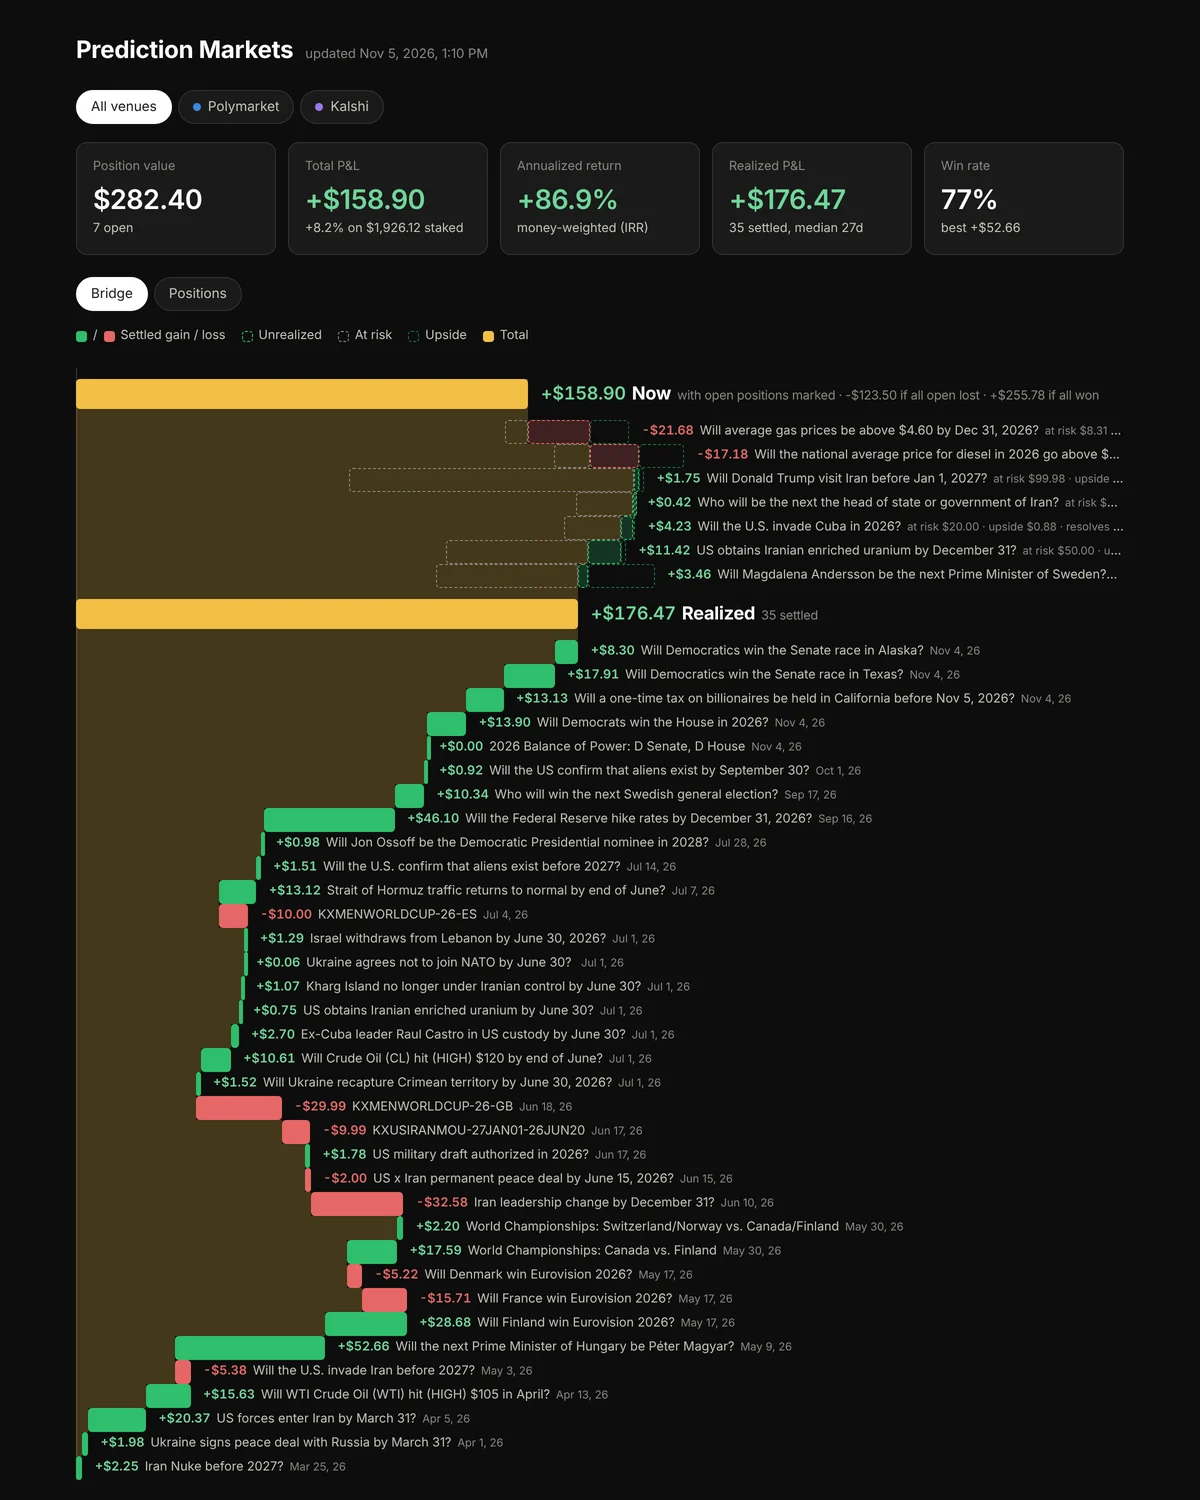
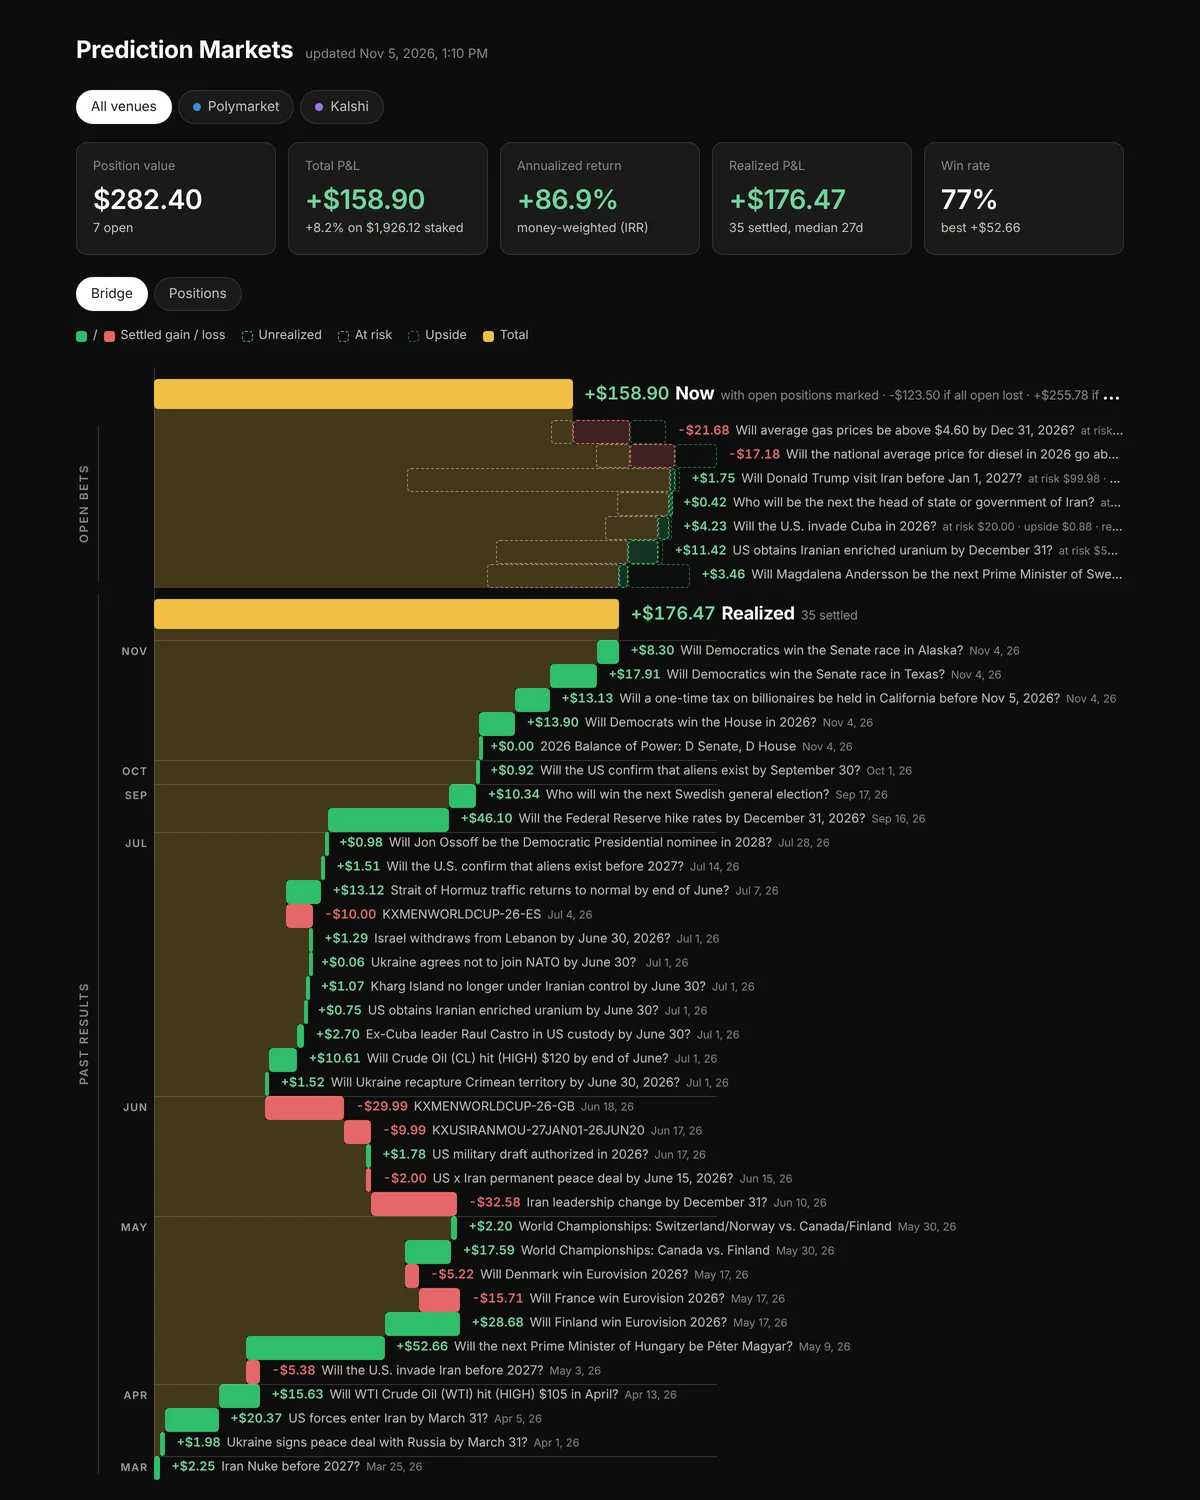
Add files via upload

Changed region(s): [[0.0617, 0.2453, 0.925, 0.9813]]

diff --git a/prediction-markets/index.html b/prediction-markets/index.html
@@ -127,6 +127,21 @@
   .br-name { font-size: 13px; overflow: hidden; text-overflow: ellipsis; white-space: nowrap; }
   .br-name .when { color: var(--text-muted); font-size: 11.5px; margin-left: 8px; }
   .br-row.total { height: 52px; }
+  .br-month { position: absolute; left: 0; top: 0; height: 0; border-top: 1px solid rgba(255,255,255,.16); z-index: 1; pointer-events: none; }
+  .br-month span { position: absolute; left: 6px; top: 2px; font-size: 10.5px; font-weight: 600; letter-spacing: .1em; text-transform: uppercase; color: var(--text-secondary); opacity: .8; }
+  /* build-up on load: the rows appear one after another from the bottom, the oldest bet first */
+  .br.anim .br-row { animation: brIn .32s ease-out both; animation-delay: calc(var(--d) * 1ms); }
+  @keyframes brIn { from { opacity: 0; transform: translateY(8px); } to { opacity: 1; transform: none; } }
+  @media (prefers-reduced-motion: reduce) { .br.anim .br-row { animation: none; } }
+  /* desktop: a vertical label beside each segment, with a thin bracket */
+  @media (min-width: 641px) {
+    .br { padding-left: 78px; }
+    .br-month span { left: -44px; width: 38px; text-align: right; top: 3px; }   /* months in their own column, left of the bars */
+    .br-seg { position: relative; }
+    .br-seg::before { content: attr(data-label); position: absolute; left: -78px; top: 6px; bottom: 6px; width: 22px;
+      writing-mode: vertical-rl; transform: rotate(180deg); text-align: center; border-left: 1px solid var(--baseline);
+      font-size: 11.5px; font-weight: 600; letter-spacing: .14em; text-transform: uppercase; color: var(--text-muted); }
+  }
   .br-plot { position: absolute; inset: 0; }
   .br-zero { position: absolute; top: 0; bottom: 0; width: 1px; background: var(--baseline); }
   .br-bar { position: absolute; top: 50%; height: 11px; margin-top: -5.5px; border-radius: 2px; box-sizing: border-box; }
@@ -436,6 +451,7 @@ function renderClosed() {
 }
 
 const tc = (n) => n >= 0 ? 'up' : 'dn';
+const cents = (p) => p > 0 && p < 1 ? ` at ${Math.round(p * 100)}¢` : '';   // the price paid per $1 contract
 const longDate = (d) => d ? new Date(d + 'T00:00:00Z').toLocaleDateString('en-US', { day: 'numeric', month: 'short', year: 'numeric', timeZone: 'UTC' }) : '';
 function renderBridge() {
   const card = document.getElementById('bridge-card');
@@ -468,9 +484,10 @@ function renderBridge() {
       const c = s.r, v = VENUES[c.venue] || { name: c.venue };
       bar = `<div class="br-bar ${c.realized_pnl >= 0 ? 'g' : 'l'}" style="left:${x0}%;width:${w}%"></div>`;
       lab = `<b class="${cls(c.realized_pnl)}">${signed(c.realized_pnl)}</b>${esc(c.title)}<span class="when">${short(c.closed_at)}</span>`;
-      tipHtml = `<span class="t">${esc(c.title)}</span><span class="m">${esc(v.name)} · ${esc(c.outcome)} · settled ${esc(longDate(c.closed_at))}</span>` +
-        `Cost <b>${esc(usd(c.cost_basis))}</b> · result <b class="${tc(c.realized_pnl)}">${esc(signed(c.realized_pnl))}</b> (${esc(pct(c.pct_pnl))})` +
-        `<br>Running total <b>${esc(signed(s.b))}</b>`;
+      tipHtml = `<span class="t">${esc(c.title)}</span><span class="m">${esc(v.name)}</span>` +
+        `I bet <b>${esc(usd(c.cost_basis))}</b> on <b>${esc(c.outcome)}</b>${cents(c.avg_price)}` +
+        `<br>Settled ${esc(longDate(c.closed_at))} for <b>${esc(usd(c.cost_basis + c.realized_pnl))}</b>, ` +
+        `${c.realized_pnl >= 0 ? 'a gain' : 'a loss'} of <b class="${tc(c.realized_pnl)}">${esc(signed(c.realized_pnl))}</b> (${esc(pct(c.pct_pnl))})`;
     } else if (s.kind === 'open') {
       const p = s.r, v = VENUES[p.venue] || { name: p.venue };
       const rEnd = Math.min(s.a, s.b), rStart = s.a - s.risk, left = Math.max(0, rEnd - rStart);   // left: what can still be lost from today
@@ -481,10 +498,10 @@ function renderBridge() {
         (more > 0.005 ? `<div class="br-bar upside" style="left:${X(uStart)}%;width:${X(uEnd) - X(uStart)}%"></div>` : '') +
         `<div class="br-bar ${p.unrealized_pnl >= 0 ? 'og' : 'ol'}" style="left:${x0}%;width:${w}%"></div>`;
       lab = `<b class="${cls(p.unrealized_pnl)}">${signed(p.unrealized_pnl)}</b>${esc(p.title)}<span class="when">at risk ${usd(left)} · upside ${usd(more)}${p.end_date ? ' · resolves ' + short(p.end_date) : ''}</span>`;
-      tipHtml = `<span class="t">${esc(p.title)}</span><span class="m">${esc(v.name)} · ${esc(p.outcome)} · open${p.end_date ? ' · resolves ' + esc(longDate(p.end_date)) : ''}</span>` +
-        `Cost <b>${esc(usd(p.cost_basis))}</b> · now <b>${esc(usd(p.current_value))}</b>` +
-        `<br>Unrealized <b class="${tc(p.unrealized_pnl)}">${esc(signed(p.unrealized_pnl))}</b> (${esc(pct(p.pct_pnl))})` +
-        `<br>If it wins: pays <b>${esc(usd(p.size))}</b>, <b class="up">${esc(signed(p.size - p.cost_basis))}</b> on the stake, <b class="up">${esc(signed(p.size - p.current_value))}</b> from today`;
+      tipHtml = `<span class="t">${esc(p.title)}</span><span class="m">${esc(v.name)}${p.end_date ? ' · resolves ' + esc(longDate(p.end_date)) : ''}</span>` +
+        `I bet <b>${esc(usd(p.cost_basis))}</b> on <b>${esc(p.outcome)}</b>${cents(p.avg_price)}` +
+        `<br>Worth <b>${esc(usd(p.current_value))}</b> now, ${p.unrealized_pnl >= 0 ? 'up' : 'down'} <b class="${tc(p.unrealized_pnl)}">${esc(signed(p.unrealized_pnl))}</b> (${esc(pct(p.pct_pnl))})` +
+        `<br>Pays <b>${esc(usd(p.size))}</b> if it wins, nothing if it loses`;
     } else {
       bar = `<div class="br-bar sum" style="left:${x0}%;width:${w}%"></div>`;
       const worst = realized - open.reduce((t, p) => t + p.cost_basis, 0);
@@ -506,13 +523,25 @@ function renderBridge() {
     const link = below ? `<div class="br-link" style="left:${X(joinAt)}%;top:50%;bottom:-1px"></div>` : '';
     const linkUp = i > 0 ? `<div class="br-link" style="left:${X(s.b)}%;top:-1px;bottom:50%"></div>` : '';
     const labLeft = Math.max(x1, s.kind === 'open' ? Math.max(X(s.a), X(s.uEnd)) : x1) + 1.2;
-    return `<div class="br-row${s.kind === 'sum' ? ' total' : ''}" data-tip="${tipHtml.replace(/"/g, '&quot;')}">
+    const mon = s.kind === 'settled' && s.r.closed_at ? s.r.closed_at.slice(0, 7) : null, above = arr[i - 1];
+    const newMonth = mon && !(above && above.kind === 'settled' && above.r.closed_at && above.r.closed_at.slice(0, 7) === mon);
+    const mark = newMonth ? `<div class="br-month" style="width:${PLOT}%"><span>${new Date(mon + '-01T00:00:00Z').toLocaleDateString('en-US', { month: 'short', timeZone: 'UTC' })}${mon.slice(0, 4) !== String(new Date().getUTCFullYear()) ? ' ' + mon.slice(0, 4) : ''}</span></div>` : '';
+    return `<div class="br-row${s.kind === 'sum' ? ' total' : ''}${newMonth ? ' mstart' : ''}" style="--i:${i}" data-tip="${tipHtml.replace(/"/g, '&quot;')}">${mark}
       <div class="br-plot"><div class="br-zero" style="left:${X(0)}%"></div>${link}${linkUp}${bar}</div>
       <div class="br-lab" style="left:${labLeft}%;right:0">${lab}</div></div>`;
-  }).join('');
-  card.innerHTML = `<div class="br">${html}</div>`;
+  });
+  // group the rows under side labels: Now on its own, then the open bets, then Realized with the settled ones
+  const nOpen = open.length, top = nOpen ? 1 : 0;
+  const seg = (label, rs) => rs.length ? `<div class="br-seg" data-label="${label}">${rs.join('')}</div>` : '';
+  card.innerHTML = `<div class="br${animateBridge ? ' anim' : ''}">${html.slice(0, top).join('')}${seg('Open bets', html.slice(top, top + nOpen))}${seg('Past results', html.slice(top + nOpen))}</div>`;
   card.querySelectorAll('.br-row').forEach(r => bindTip(r, r.dataset.tip));
+  if (animateBridge) {   // stagger from the bottom row up, the whole build taking about two seconds
+    const rs = [...card.querySelectorAll('.br-row')], step = Math.min(45, 1900 / Math.max(1, rs.length));
+    rs.forEach((r, k) => r.style.setProperty('--d', Math.round((rs.length - 1 - k) * step)));
+    animateBridge = false;
+  }
 }
+let animateBridge = true;   // once on load, and again when switching back to the Bridge view
 
 let view = 'bridge'; try { view = localStorage.getItem('pm-view') === 'tables' ? 'tables' : 'bridge'; } catch (e) {}   // the bridge unless Positions was picked
 function renderView() {
@@ -521,7 +550,9 @@ function renderView() {
   document.getElementById('view-tables').hidden = view !== 'tables';
 }
 document.querySelectorAll('#views .chip').forEach(b => b.onclick = () => {
-  view = b.dataset.view; try { localStorage.setItem('pm-view', view); } catch (e) {} renderView();
+  const was = view; view = b.dataset.view; try { localStorage.setItem('pm-view', view); } catch (e) {}
+  if (view === 'bridge' && was !== 'bridge') { animateBridge = true; renderBridge(); }
+  renderView();
 });
 
 let bridgeNarrow = innerWidth < 640;
